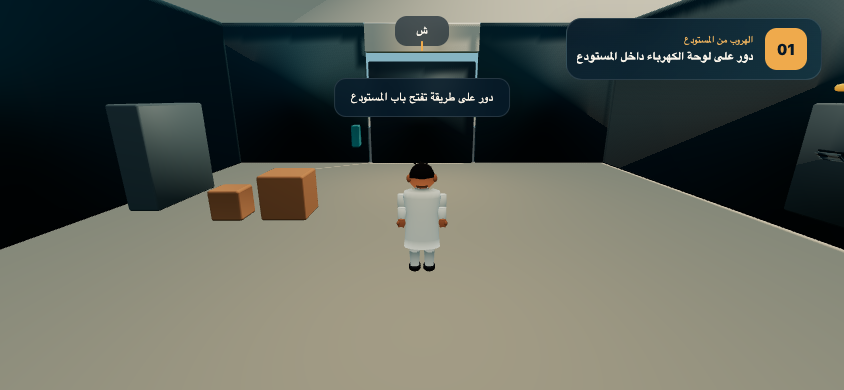
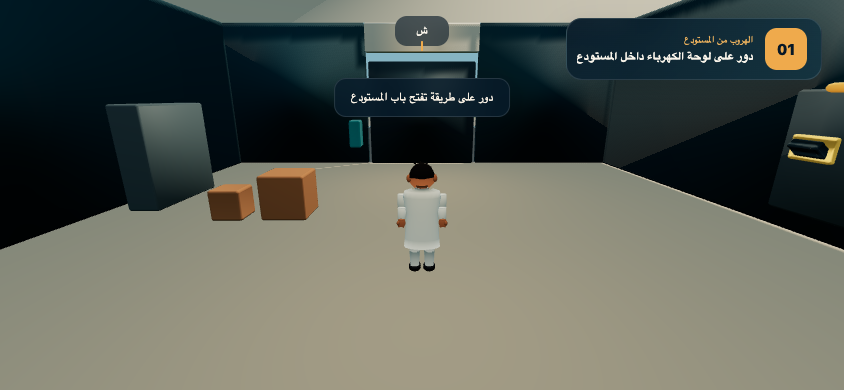
fix: align vehicle steering and improve puzzle readability

Changed region(s): [[0.9242, 0.1846, 1.0, 0.4308], [0.4005, 0.3077, 0.4313, 0.3692]]

diff --git a/src/world/MissionOneWorld.ts b/src/world/MissionOneWorld.ts
@@ -309,8 +309,8 @@ export class MissionOneWorld {
   }
 
   private addPowerPuzzle(): void {
-    const panel = new Mesh(new RoundedBoxGeometry(0.28, 2.2, 2.8, 3, 0.09), new MeshStandardMaterial({ color: 0x52636a, metalness: 0.28, roughness: 0.55 }));
-    panel.position.set(-7.72, 1.55, -5.1);
+    const panel = new Mesh(new RoundedBoxGeometry(0.34, 2.45, 3.45, 3, 0.1), new MeshStandardMaterial({ color: 0x52636a, metalness: 0.28, roughness: 0.55 }));
+    panel.position.set(-7.72, 1.68, -5.1);
     panel.castShadow = true;
     this.root.add(panel);
 
@@ -322,30 +322,36 @@ export class MissionOneWorld {
     Object.entries(colors).forEach(([id, color], index) => {
       const material = new MeshStandardMaterial({ color, emissive: color, emissiveIntensity: 0.35, roughness: 0.54 });
       this.breakerMaterials.set(id, material);
-      const lever = new Mesh(new RoundedBoxGeometry(0.24, 0.18, 0.42, 2, 0.04), this.breakerOff);
+      const z = -6.15 + index * 1.05;
+      const colorPlate = new Mesh(
+        new RoundedBoxGeometry(0.16, 0.5, 0.8, 2, 0.05),
+        new MeshStandardMaterial({ color, emissive: color, emissiveIntensity: 0.16, roughness: 0.62 }),
+      );
+      colorPlate.position.set(-7.51, 1.8, z);
+      const lever = new Mesh(new RoundedBoxGeometry(0.34, 0.24, 0.56, 2, 0.05), this.breakerOff);
       lever.name = id;
-      lever.position.set(-7.5, 1.72, -5.8 + index * 0.7);
+      lever.position.set(-7.42, 1.8, z);
       lever.rotation.z = 0.72;
       this.breakerLevers.set(id, lever);
-      this.root.add(lever);
+      this.root.add(colorPlate, lever);
     });
 
     const generator = new Group();
-    const body = new Mesh(new RoundedBoxGeometry(2.2, 1.45, 1.8, 3, 0.16), new MeshStandardMaterial({ color: palette.coral, roughness: 0.75 }));
-    body.position.y = 0.72;
-    const top = new Mesh(new RoundedBoxGeometry(1.65, 0.45, 1.2, 3, 0.12), new MeshStandardMaterial({ color: palette.navy, metalness: 0.18, roughness: 0.58 }));
-    top.position.y = 1.45;
-    const indicator = new Mesh(new CylinderGeometry(0.12, 0.12, 0.08, 12), this.generatorIndicator);
-    indicator.position.set(0.55, 1.72, 0.25);
+    const body = new Mesh(new RoundedBoxGeometry(2.55, 1.7, 2.1, 3, 0.17), new MeshStandardMaterial({ color: palette.coral, roughness: 0.75 }));
+    body.position.y = 0.85;
+    const top = new Mesh(new RoundedBoxGeometry(1.9, 0.5, 1.45, 3, 0.13), new MeshStandardMaterial({ color: palette.navy, metalness: 0.18, roughness: 0.58 }));
+    top.position.y = 1.68;
+    const indicator = new Mesh(new CylinderGeometry(0.15, 0.15, 0.1, 12), this.generatorIndicator);
+    indicator.position.set(0.62, 1.98, 0.3);
     indicator.rotation.z = Math.PI / 2;
     generator.add(body, top, indicator);
     generator.position.set(5.7, 0, -9.2);
     generator.traverse((object) => { if (object instanceof Mesh) object.castShadow = true; });
     this.root.add(generator);
-    this.collisions.addBox('generator-body', new Vector3(5.7, 0.85, -9.2), new Vector3(2.35, 1.7, 1.95));
+    this.collisions.addBox('generator-body', new Vector3(5.7, 1, -9.2), new Vector3(2.7, 2, 2.3));
 
-    const doorControl = new Mesh(new RoundedBoxGeometry(0.35, 0.9, 0.55, 2, 0.07), new MeshStandardMaterial({ color: palette.teal, emissive: 0x17484c, emissiveIntensity: 0.35 }));
-    doorControl.position.set(2.75, 1.2, 4.05);
+    const doorControl = new Mesh(new RoundedBoxGeometry(0.48, 1.1, 0.7, 2, 0.08), new MeshStandardMaterial({ color: palette.teal, emissive: 0x17484c, emissiveIntensity: 0.35 }));
+    doorControl.position.set(2.75, 1.3, 4.02);
     this.root.add(doorControl);
   }
 
@@ -442,33 +448,33 @@ export class MissionOneWorld {
 
   private createInteractables(): Readonly<Record<string, InteractableDefinition>> {
     return {
-      'power-panel': { id: 'power-panel', label: 'افحص لوحة الكهرباء', position: new Vector3(-7.25, 1.45, -5.1), priority: 2 },
-      'breaker-blue': { id: 'breaker-blue', label: 'شغّل القاطع الأزرق', position: new Vector3(-7.24, 1.72, -5.8), priority: 3 },
-      'breaker-red': { id: 'breaker-red', label: 'شغّل القاطع الأحمر', position: new Vector3(-7.24, 1.72, -5.1), priority: 3 },
-      'breaker-yellow': { id: 'breaker-yellow', label: 'شغّل القاطع الأصفر', position: new Vector3(-7.24, 1.72, -4.4), priority: 3 },
-      generator: { id: 'generator', label: 'شغّل المولد', position: new Vector3(4.45, 1.15, -9.2), priority: 2, lineOfSightIgnore: ['generator-body'] },
-      'door-control': { id: 'door-control', label: 'افتح الباب الرئيسي', position: new Vector3(2.75, 1.2, 4.05), priority: 2 },
+      'power-panel': { id: 'power-panel', label: 'افحص لوحة الكهرباء', position: new Vector3(-7.18, 1.55, -5.1), priority: 2 },
+      'breaker-blue': { id: 'breaker-blue', label: 'شغّل القاطع الأزرق', position: new Vector3(-7.18, 1.8, -6.15), priority: 3 },
+      'breaker-red': { id: 'breaker-red', label: 'شغّل القاطع الأحمر', position: new Vector3(-7.18, 1.8, -5.1), priority: 3 },
+      'breaker-yellow': { id: 'breaker-yellow', label: 'شغّل القاطع الأصفر', position: new Vector3(-7.18, 1.8, -4.05), priority: 3 },
+      generator: { id: 'generator', label: 'شغّل المولد', position: new Vector3(4.15, 1.3, -9.2), priority: 2, lineOfSightIgnore: ['generator-body'] },
+      'door-control': { id: 'door-control', label: 'افتح الباب الرئيسي', position: new Vector3(2.75, 1.3, 4.02), priority: 2 },
     };
   }
 
   private createMissionMarkers(): void {
     const positions: Record<string, Vector3> = {
       'power-panel': new Vector3(-6.9, 2.8, -5.1),
-      'breaker-blue': new Vector3(-6.9, 2.65, -5.8),
-      'breaker-red': new Vector3(-6.9, 2.65, -5.1),
-      'breaker-yellow': new Vector3(-6.9, 2.65, -4.4),
-      generator: new Vector3(4.5, 2.8, -9.2),
-      'door-control': new Vector3(2.75, 2.5, 4.0),
+      'breaker-blue': new Vector3(-6.85, 2.85, -6.15),
+      'breaker-red': new Vector3(-6.85, 2.85, -5.1),
+      'breaker-yellow': new Vector3(-6.85, 2.85, -4.05),
+      generator: new Vector3(4.2, 3.05, -9.2),
+      'door-control': new Vector3(2.75, 2.75, 4.0),
       'warehouse-exit': new Vector3(0, 2.1, 6.4),
       'mission-car': new Vector3(0, 2.6, 10.2),
       'garage-goal': new Vector3(0, 2.6, 41.2),
     };
     Object.entries(positions).forEach(([id, position]) => {
       const marker = new Group();
-      const ring = new Mesh(new TorusGeometry(0.28, 0.06, 8, 18), new MeshStandardMaterial({ color: palette.amber, emissive: 0xc87921, emissiveIntensity: 0.72 }));
+      const ring = new Mesh(new TorusGeometry(0.36, 0.075, 8, 18), new MeshStandardMaterial({ color: palette.amber, emissive: 0xc87921, emissiveIntensity: 0.72 }));
       ring.rotation.x = Math.PI / 2;
-      const pointer = new Mesh(new ConeGeometry(0.13, 0.32, 8), ring.material);
-      pointer.position.y = -0.42;
+      const pointer = new Mesh(new ConeGeometry(0.16, 0.4, 8), ring.material);
+      pointer.position.y = -0.52;
       pointer.rotation.x = Math.PI;
       marker.add(ring, pointer);
       marker.position.copy(position);

diff --git a/src/styles.css b/src/styles.css
@@ -78,7 +78,7 @@ button { font: inherit; color: inherit; }
 .run-button { left: 2%; bottom: 2%; }
 .crouch-button { left: 27%; top: 0; }
 .context-action-cluster { position: absolute; right: max(26px, calc(env(safe-area-inset-right) + 20px)); bottom: max(190px, calc(env(safe-area-inset-bottom) + 156px)); display: grid; gap: 8px; pointer-events: none; }
-.context-action-button { width: clamp(58px, 8vw, 70px); height: clamp(58px, 8vw, 70px); display: grid; place-items: center; border: 1px solid rgba(255,255,255,.24); border-radius: 50%; color: white; background: rgba(8,34,49,.82); box-shadow: 0 8px 20px rgba(0,0,0,.22); pointer-events: auto; touch-action: none; transition: transform .05s ease, background .12s ease, opacity .12s ease; }
+.context-action-button { width: clamp(64px, 8.5vw, 76px); height: clamp(64px, 8.5vw, 76px); display: grid; place-items: center; border: 1px solid rgba(255,255,255,.24); border-radius: 50%; color: white; background: rgba(8,34,49,.82); box-shadow: 0 8px 20px rgba(0,0,0,.22); pointer-events: auto; touch-action: none; transition: transform .05s ease, background .12s ease, opacity .12s ease; }
 .context-action-button span { color: var(--amber); font: 900 17px/1 system-ui; direction: ltr; }
 .context-action-button b { font-size: 9px; }
 .context-action-button.is-pressed { transform: scale(.9); }
@@ -87,10 +87,10 @@ button { font: inherit; color: inherit; }
 .camera-hint { position: absolute; right: max(28px, calc(env(safe-area-inset-right) + 20px)); top: 48%; display: flex; align-items: center; gap: 7px; direction: rtl; color: rgba(255,255,255,.46); font-size: 9px; text-shadow: 0 1px 3px rgba(0,0,0,.5); }
 .camera-hint i { width: 22px; height: 14px; border-radius: 8px; border: 1px solid currentColor; }
 
-.interaction-prompt { position: absolute; z-index: 34; left: 50%; bottom: max(54px, calc(env(safe-area-inset-bottom) + 42px)); transform: translateX(-50%); display: flex; align-items: center; gap: 9px; padding: 8px 13px; border: 1px solid rgba(255,255,255,.16); border-radius: 12px; color: var(--cream); background: rgba(5,24,37,.84); backdrop-filter: blur(10px); pointer-events: none; }
+.interaction-prompt { position: absolute; z-index: 34; left: 50%; bottom: max(54px, calc(env(safe-area-inset-bottom) + 42px)); transform: translateX(-50%); display: flex; align-items: center; gap: 10px; padding: 10px 15px; border: 1px solid rgba(255,255,255,.16); border-radius: 13px; color: var(--cream); background: rgba(5,24,37,.84); backdrop-filter: blur(10px); pointer-events: none; }
 .interaction-prompt[hidden] { display: none; }
-.interaction-prompt kbd { display: grid; place-items: center; width: 25px; height: 25px; border-radius: 7px; color: var(--ink); background: var(--amber); font: 900 12px/1 system-ui; direction: ltr; }
-.interaction-prompt strong { font-size: 11px; }
+.interaction-prompt kbd { display: grid; place-items: center; width: 29px; height: 29px; border-radius: 8px; color: var(--ink); background: var(--amber); font: 900 13px/1 system-ui; direction: ltr; }
+.interaction-prompt strong { font-size: 12px; }
 
 .pause-panel, .rotate-overlay, .mission-complete-panel { position: absolute; inset: 0; z-index: 40; display: grid; place-items: center; padding: 26px; background: rgba(4, 17, 27, .82); backdrop-filter: blur(16px); opacity: 0; visibility: hidden; pointer-events: none; transition: opacity .22s ease, visibility .22s ease; }
 .pause-panel.is-visible, .rotate-overlay.is-visible, .mission-complete-panel.is-visible { opacity: 1; visibility: visible; pointer-events: auto; }

diff --git a/tests/unit/MissionOneDirector.test.ts b/tests/unit/MissionOneDirector.test.ts
@@ -32,9 +32,9 @@ describe('MissionOneDirector vertical slice', () => {
     expect(director.updateZones(world.garageGoal, true).completed).toBe(false);
 
     interactAt(director, new Vector3(-5.8, 0, -5.1), Math.PI / 2);
-    interactAt(director, new Vector3(-5.8, 0, -5.8), Math.PI / 2);
+    interactAt(director, new Vector3(-5.8, 0, -6.15), Math.PI / 2);
     interactAt(director, new Vector3(-5.8, 0, -5.1), Math.PI / 2);
-    interactAt(director, new Vector3(-5.8, 0, -4.4), Math.PI / 2);
+    interactAt(director, new Vector3(-5.8, 0, -4.05), Math.PI / 2);
     expect(director.runtime.getCurrentObjective()?.id).toBe('start-generator');
 
     interactAt(director, new Vector3(3.2, 0, -9.2), -Math.PI / 2);
@@ -60,9 +60,9 @@ describe('MissionOneDirector vertical slice', () => {
   it('resets the visible breaker state after a wrong order', () => {
     const { world, director } = setup();
     interactAt(director, new Vector3(-5.8, 0, -5.1), Math.PI / 2);
-    interactAt(director, new Vector3(-5.8, 0, -5.8), Math.PI / 2);
+    interactAt(director, new Vector3(-5.8, 0, -6.15), Math.PI / 2);
 
-    director.updateInteraction(new Vector3(-5.8, 0, -4.4), Math.PI / 2);
+    director.updateInteraction(new Vector3(-5.8, 0, -4.05), Math.PI / 2);
     const feedback = director.interact();
     expect(feedback.message).toContain('الترتيب غلط');
     expect(director.runtime.getProgress().sequenceIndex).toBe(0);

diff --git a/tests/e2e/gameplay.spec.ts b/tests/e2e/gameplay.spec.ts
@@ -79,14 +79,18 @@ test('completes mission one in order, drives to the garage, and resets cleanly',
   };
 
   await teleport(-5.8, -5.1, Math.PI / 2);
+  await page.evaluate(() => window.__MC_TEST__?.setCameraYaw(Math.PI / 2));
+  await page.waitForTimeout(250);
+  await page.screenshot({ path: 'artifacts/screenshots/phase2-power-panel.png' });
   await interact();
+  await page.evaluate(() => window.__MC_TEST__?.setCameraYaw(Math.PI));
   expect((await page.evaluate(() => window.__MC_TEST__?.getState()))!.missionObjective).toBe('power-sequence');
 
-  await teleport(-5.8, -5.8, Math.PI / 2);
+  await teleport(-5.8, -6.15, Math.PI / 2);
   await interact();
   await teleport(-5.8, -5.1, Math.PI / 2);
   await interact();
-  await teleport(-5.8, -4.4, Math.PI / 2);
+  await teleport(-5.8, -4.05, Math.PI / 2);
   await interact();
   expect((await page.evaluate(() => window.__MC_TEST__?.getState()))!.missionObjective).toBe('start-generator');
 

diff --git a/tests/unit/SimpleVehicleController.test.ts b/tests/unit/SimpleVehicleController.test.ts
@@ -43,6 +43,21 @@ describe('SimpleVehicleController', () => {
     expect(world.getAll().find((item) => item.id === 'wall')?.bounds.containsPoint(car.position)).toBe(false);
   });
 
+  it('steers screen-right and screen-left without mirroring the joystick', () => {
+    for (const steering of [1, -1]) {
+      const world = new CollisionWorld();
+      const car = new SimpleVehicleController(world, new Vector3());
+      car.enter();
+      for (let frame = 0; frame < 36; frame += 1) {
+        car.update(1 / 60, input(new Vector2(steering, 1)));
+      }
+
+      // With the chase camera behind +Z travel, screen-right is world -X.
+      expect(car.yaw * steering).toBeLessThan(0);
+      expect(car.position.x * steering).toBeLessThan(0);
+    }
+  });
+
   it('finds a safe side exit and never returns a blocked candidate', () => {
     const world = new CollisionWorld();
     const car = new SimpleVehicleController(world, new Vector3());

diff --git a/src/entities/vehicles/SimpleVehicleController.ts b/src/entities/vehicles/SimpleVehicleController.ts
@@ -63,7 +63,10 @@ export class SimpleVehicleController {
 
     const speedRatio = Math.min(1, Math.abs(this.speed) / 5.5);
     if (speedRatio > 0.025) {
-      this.yaw += steering * Math.sign(this.speed) * speedRatio * 1.65 * delta;
+      // At the mission start the chase camera looks toward +Z, where screen
+      // right is world -X. Subtracting steering keeps the wheel and car motion
+      // aligned with the joystick instead of mirroring left/right.
+      this.yaw -= steering * Math.sign(this.speed) * speedRatio * 1.65 * delta;
     }
 
     proposedPosition.copy(this.position);

diff --git a/docs/PHASE2_VERTICAL_SLICE_REPORT.md b/docs/PHASE2_VERTICAL_SLICE_REPORT.md
@@ -33,7 +33,7 @@ Safari acceptance is pending**.
 ## Acceptance evidence
 
 - `npm run build`: passed.
-- Unit tests: 53/53 passed across 11 files.
+- Unit tests: 54/54 passed across 11 files.
 - Project audit: 21/21 passed.
 - Browser E2E: 2/2 passed.
 - The second E2E runs the complete ordered mission, drives to the garage, checks
@@ -42,8 +42,19 @@ Safari acceptance is pending**.
 - Warehouse start sample: 81 draw calls, 22,888 triangles, 1 texture.
 - A dedicated layout test rejects coplanar area overlap between the warehouse,
   street, garage, and grass surfaces.
-- Screenshots: `artifacts/screenshots/phase2-warehouse.png` and
+- Screenshots: `artifacts/screenshots/phase2-warehouse.png`,
+  `artifacts/screenshots/phase2-power-panel.png`, and
   `artifacts/screenshots/phase2-mission-complete.png`.
+
+## iPhone readability refinement
+
+- Corrected the vehicle steering sign so joystick right/left matches the chase
+  camera view in forward and reverse.
+- Increased breaker spacing from 0.7 m to 1.05 m.
+- Slightly enlarged the panel, breakers, generator, door control, interaction
+  prompt, touch context buttons, and mission markers.
+- Added persistent blue, red, and yellow breaker plates so the required order is
+  visible before any switch is activated.
 
 ## Remaining device checks
 
